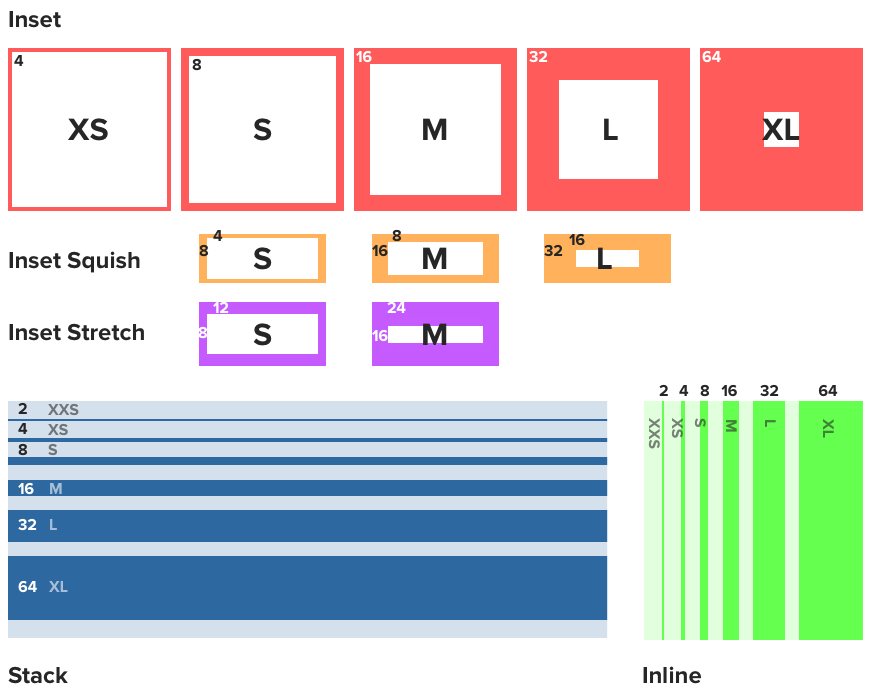
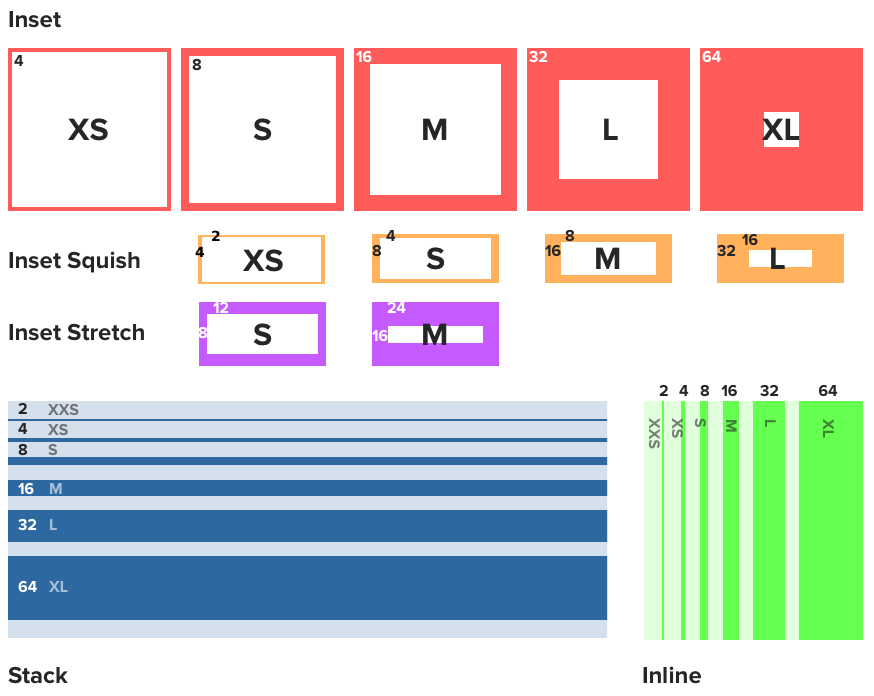
feat(watt): add inset-squish-xs size to spacing

diff --git a/libs/ui-watt/src/lib/foundations/spacing/_spacing.import.scss b/libs/ui-watt/src/lib/foundations/spacing/_spacing.import.scss
@@ -38,6 +38,10 @@
 }
 
 // Inset Squish
+@mixin inset-squish-xs {
+  padding: #{spaceVariables.$watt-space-baseline / 2} var(--watt-space-xs);
+}
+
 @mixin inset-squish-s {
   padding: var(--watt-space-xs) var(--watt-space-s);
 }

diff --git a/libs/ui-watt/src/lib/foundations/spacing/_inset.scss b/libs/ui-watt/src/lib/foundations/spacing/_inset.scss
@@ -38,6 +38,10 @@
 }
 
 // Inset Squish
+.watt-space-inset-squish-xs {
+  @include space.inset-squish-xs;
+}
+
 .watt-space-inset-squish-s {
   @include space.inset-squish-s;
 }
